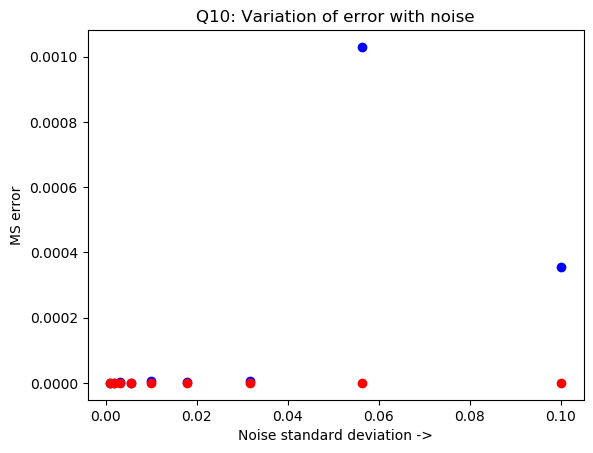
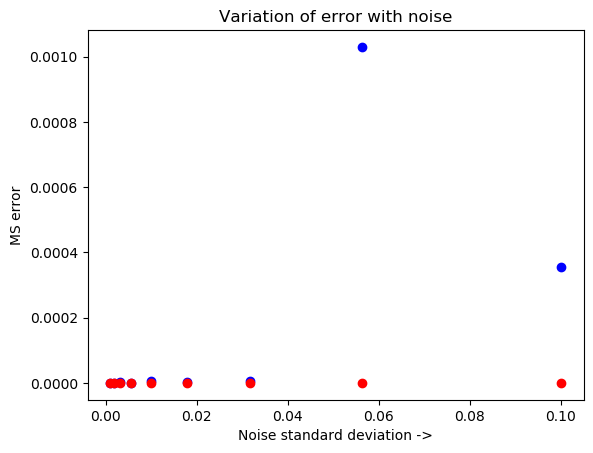
files renamed

Changed region(s): [[0.3339, 0.0, 0.8196, 0.0618]]

diff --git a/week3/EE19B123_assign3.py b/week3/EE19B123_assign3.py
@@ -12,18 +12,17 @@ import pylab
 import pandas as pd 
 from scipy import linalg
 import scipy.special as sp
-import os
-os.chdir("/home/tanay/Documents/sem4/EE2703/week3/")
+
 
 #f(t) = 1.05J2(t) - 0.105t + n(t)
 def plot_function(x,y,sigma,path):
     '''
     saves the polt as a .png file in path
-    Params:
     path : image path 
     x is 1 dim time axis
     y is 9 dim fucntions values
     returns None
+    please give suitable file path for svaing the image as .png and uncomment the lineas 38 and 39
     '''
 
     #sigma = np.logspace(-1,-3,9)
@@ -32,9 +31,12 @@ def plot_function(x,y,sigma,path):
 
     true = g(x,1.05,-0.105)
     plt.plot(x,true, color ='k', label ='True Value')
+    plt.xlabel('t')
+    plt.ylabel('f(t)+ noise')
+    plt.title("Data to be fitted to theory")
     plt.legend()
-    plt.savefig(path+'.png',bbox_inches='tight')
-    print("file saved")
+    #plt.savefig(path+'.png',bbox_inches='tight')
+    #print("file saved")
     plt.clf()
 
 
@@ -45,11 +47,12 @@ def g(t,A,B):
 def errorsplot(t, data, sigma,path):
     errorbar(t[::5],data[::5,1],sigma[0],fmt='ro',label = "Error bar")
     plt.xlabel("t")
+    plt.ylabel('f(t)')
     plt.title("Data points for $\sigma$ = 0.1 along with exact function")
     plt.plot(t,g(t,1.05,-0.105),label = "True value")
     plt.legend()
-    plt.savefig(path+'.png',bbox_inches='tight')
-    print('file saved')
+    #plt.savefig(path+'.png',bbox_inches='tight')
+    #print('file saved')
     plt.clf()
 
 
@@ -87,6 +90,13 @@ def errorMatrix(x,y,col):
     return error
 
 def contourplot(x,y, path):
+    '''
+    plots the error matrix  contour plot
+    x : time arry
+    y : the noisy function values
+
+    please give suitable file path and uncomment the lines 112 and 113 for saving image as .png file
+    '''
     a = np.linspace(0,2,21)
     b = np.linspace(-0.2,0,21)
     A, B = np.meshgrid(a,b)
@@ -96,33 +106,50 @@ def contourplot(x,y, path):
     CS = pylab.contour(A,B,error,np.linspace(0.025, 0.5 ,20))
     plt.clabel(CS,CS.levels[:4], inline=1, fontsize=8)
     pylab.annotate('(%0.3f,%0.3f)'%(a[annot[0]],b[annot[1]]), (a[annot[0]],b[annot[1]]))
-    plt.title('Contour Plot')
+    plt.title('Contour Plot of $\epsilon_{ij}$')
     plt.xlabel('A')
     plt.ylabel('B')
-    plt.savefig(path+'.png',bbox_inches='tight')
-    print("file saved")
+    #plt.savefig(path+'.png',bbox_inches='tight')
+    #print("file saved")
     plt.clf()
 
 def linearplot(sigma, Aerr, Berr, path):
+    '''
+    plots the error v/s sigma on lineae scale
+
+    Aerr : array of error in estimates in A
+    Berr : array of error in estimated in B 
+
+    please give suitable file path and uncomment the lines 130 and 131 for saving image as .png file
+    '''
     pylab.plot(sigma,Aerr,'bo',label='Aerr')
     pylab.plot(sigma,Berr,'ro',label='Berr')
     plt.xlabel("Noise standard deviation ->")
     plt.ylabel('MS error')
-    plt.title('Q10: Variation of error with noise')
-    plt.savefig(path+'.png',bbox_inches='tight')
-    print("file saved")
+    plt.title('Variation of error with noise')
+    #plt.savefig(path+'.png',bbox_inches='tight')
+    #print("file saved")
     plt.clf()
 
 
 def logplot(sigma , Aerr, Berr, path):
+    '''
+    plots the error v/s sigma on log scale
+
+    Aerr : array of error in estimates in A
+    Berr : array of error in estimated in B 
+
+    please give suitable file path and uncomment the lines 151 and 152 for saving image as .png file
+    '''
     pylab.loglog(sigma,Aerr,'ro')
     pylab.stem(sigma,Aerr,'-ro', use_line_collection=True)
     pylab.loglog(sigma,Berr,'bo')
     pylab.stem(sigma,(Berr),'-bo', use_line_collection=True)
-    pylab.xlabel(r'$\sigma_{n}\rightarrow$')
-    pylab.ylabel(r'MSerror$\rightarrow$')
-    plt.savefig(path+'.png',bbox_inches='tight')
-    print("file saved")
+    plt.title('Variation of error with noise')
+    pylab.xlabel('$\sigma_{n}$')
+    pylab.ylabel('MSerror')
+    #plt.savefig(path+'.png',bbox_inches='tight')
+    #print("file saved")
     plt.clf()
 
 
@@ -132,10 +159,10 @@ if __name__ =='__main__':
     data = np.loadtxt('fitting.dat',dtype=float)
     x  = np.array(data[:,0])
     y = np.asarray(data)[:,1:]
-    plot_function(x,y, np.logspace(-1,-3,9),'figure0')
-    errorsplot(x,y, np.logspace(-1,-3,9),'figure1')
+    plot_function(x,y, np.logspace(-1,-3,9),'Q1_main')  ## last param is file path to save image 
+    errorsplot(x,y, np.logspace(-1,-3,9),'Q2_error')    ## last param is file path to save image
 
-    contourplot(x,y,'figure2')
+    contourplot(x,y,'contour')
     estimates =[]
     M = fillM(x)
     for i in range(9):
@@ -149,9 +176,9 @@ if __name__ =='__main__':
     sigma = np.logspace(-1,-3,9)
 
 
-    linearplot(sigma, A_error, B_error, 'linearplot')
+    linearplot(sigma, A_error, B_error, 'linearplot') ## last param is file path to save image
 
-    logplot(sigma, A_error, B_error, 'logplot')
+    logplot(sigma, A_error, B_error, 'logplot')  ## last param is file path to save image
     
 
 

diff --git a/week2/EE19B123_assign2.py b/week2/EE19B123_assign2.py
@@ -172,7 +172,7 @@ def solver(node2id, source2id, element2obj,circuit, ac):
                     M[node2id[node],node2id[element2obj[i].node1]] += 1.0/element2obj[i].value
                     M[node2id[node],node2id[element2obj[i].node2]] -= 1.0/element2obj[i].value
                 if i[0] =='V':
-                    M[node2id[node],source2id[i] + n -1] += 1
+                    M[node2id[node],source2id[i] + n -1] += -1
                 elif i[0] =='I':
                     y[node2id[node]] += (1)*element2obj[i].value
 
@@ -183,7 +183,7 @@ def solver(node2id, source2id, element2obj,circuit, ac):
                     M[node2id[node],node2id[element2obj[i].node2]] += 1.0/element2obj[i].value
                     M[node2id[node],node2id[element2obj[i].node1]] -= 1.0/element2obj[i].value
                 if i[0]=='V':
-                    M[node2id[node],source2id[i] + n -1] += -1
+                    M[node2id[node],source2id[i] + n -1] += 1
                 elif i[0] =='I':
                     y[node2id[node]] += (-1)*element2obj[i].value
 
@@ -255,7 +255,6 @@ def cleaner(lines, flag, start, end, ac):
     return cir
             
         
-
 if __name__ =='__main__':
     try:
         assert len(sys.argv) == 2,'Please use this format : python %s <inputfile>' % sys.argv[0]
@@ -266,7 +265,7 @@ if __name__ =='__main__':
         ac_flag = False
         freq = 0
         try:
-            print('-'*15+"Accuracy is upto 1e-8 so for all terms smaller its been rounded to 0"+'-'*15)
+            print('-'*15+"Accuracy is upto 1e-9 so for all terms smaller its been rounded to 0"+'-'*15)
             with open(sys.argv[1]) as f:
                 lines = f.readlines()
                 c = 0

diff --git a/week1/assign1.py b/week1/assign1.py
@@ -16,7 +16,7 @@ def getTokens(line):
     '''
     tokens = line.split()
     l = len(tokens)
-    
+    print(l)
     if l==4 or (l>4 and tokens[4][0] =='#'):
         ### l =4 implies impedance element
         ### but incase a comment is present it may misleed the element type
